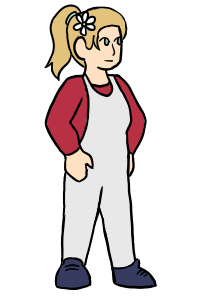
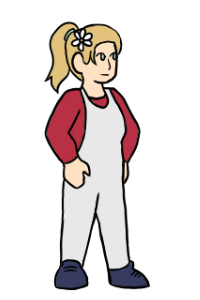
repairs to ingame models & added charlie walk anim

Changed region(s): [[0.21, 0.0, 0.78, 0.99], [0.3, 0.96, 0.36, 0.99]]

diff --git a/Radiant Night/Assets/Scripts/Movement/NPCMovement.cs b/Radiant Night/Assets/Scripts/Movement/NPCMovement.cs
@@ -5,7 +5,7 @@ using UnityEngine;
 public class NPCMovement : MonoBehaviour
 {
     [SerializeField] public string NPCName;
-    [SerializeField] private Sprite sprite;
+    [SerializeField] private Sprite idle_sprite, walking_sprite;
     [SerializeField] private Transform startingPosition;
 
     public GameObject[] waypoints;  // Array of waypoints for the NPC to follow
@@ -97,8 +97,18 @@ public class NPCMovement : MonoBehaviour
                 {
                     transform.position = Vector3.Lerp(startPosition, targetWaypoint.position, elapsedTime / journeyTime);
                     elapsedTime += Time.deltaTime;
+                    if (targetWaypoint.transform.position.x > transform.position.x)
+                    {
+                        GetComponent<SpriteRenderer>().flipX = false;
+                    }
+                    else if (targetWaypoint.transform.position.x < transform.position.x)
+                    {
+                        GetComponent<SpriteRenderer>().flipX = true;
+                    }
                     yield return null;
                 }
+
+                
 
                 transform.position = targetWaypoint.position; // Snap to exact position
                 currentWaypointIndex++;
@@ -116,12 +126,14 @@ public class NPCMovement : MonoBehaviour
     // Set the NPC to stop and wait for the player (when dialogue starts)
     public void WaitAtWaypoint()
     {
+        this.GetComponent<SpriteRenderer>().sprite = idle_sprite;
         isWaiting = true;
     }
 
     // Set the NPC to stop waiting and resume movement
     public void StopWaiting()
     {
+        this.GetComponent<SpriteRenderer>().sprite = walking_sprite;
         isWaiting = false;
         //StopCoroutine(MoveAlongWaypoints());
         StartMoving();

diff --git a/Radiant Night/Assets/Scripts/Movement/Movement.cs b/Radiant Night/Assets/Scripts/Movement/Movement.cs
@@ -19,7 +19,7 @@ public class Movement : MonoBehaviour
     {
         if (!Player.model)
         {
-            Player.SetGender(true, null, null);
+            Player.SetGender(true, null, null, null);
         }
         player.GetComponent<SpriteRenderer>().sprite = Player.model;
         rb = GetComponent<Rigidbody2D>();
@@ -64,8 +64,12 @@ public class Movement : MonoBehaviour
         {
             GetComponent<SpriteRenderer>().flipX = false;
         }
-
-        if (GetComponent<Rigidbody2D>().velocity != Vector2.zero)
+        
+        if (GetComponent<Rigidbody2D>().velocity.y != 0)
+        {
+            player.GetComponent<SpriteRenderer>().sprite = Player.jumping_model;
+        }
+        else if (GetComponent<Rigidbody2D>().velocity.x != 0)
         {
             player.GetComponent<SpriteRenderer>().sprite = Player.walking_model;
         }

diff --git a/Radiant Night/Assets/Scripts/Player.cs b/Radiant Night/Assets/Scripts/Player.cs
@@ -8,9 +8,10 @@ public class Player : MonoBehaviour
     public static Sprite default_model;
     public static Sprite model;
     public static Sprite walking_model;
+    public static Sprite jumping_model;
     public static bool gender; //0 for male, 1 for female
 
-    public static void SetGender(bool fem, Sprite genderedModel, Sprite walkingModel)
+    public static void SetGender(bool fem, Sprite genderedModel, Sprite walkingModel, Sprite jumpingModel)
     {
         if (!genderedModel)
         {
@@ -19,6 +20,7 @@ public class Player : MonoBehaviour
 
         model = genderedModel;
         walking_model = walkingModel;
+        jumping_model = jumpingModel;
         gender = fem;
     }
 }

diff --git a/Radiant Night/Assets/Scripts/newgame.cs b/Radiant Night/Assets/Scripts/newgame.cs
@@ -9,7 +9,7 @@ public class newgame : MonoBehaviour
 {
     [SerializeField] Camera cam;
     [SerializeField] Canvas mainCanvas, characterCanvas;
-    [SerializeField] Sprite ashley, ashton, ashley_walk;
+    [SerializeField] Sprite ashley, ashton, ashley_walk, ashley_jump;
 
     Cutscene cutscene;
     
@@ -36,7 +36,7 @@ public class newgame : MonoBehaviour
 
     public void SelectCharacter(bool fem)
     {
-        Player.SetGender(fem, ashley, ashley_walk);
+        Player.SetGender(fem, ashley, ashley_walk, ashley_jump);
         StartCoroutine(HandleStartGame());
     }
 

diff --git a/Radiant Night/Assets/Scripts/Dialogue/DialogueManager.cs b/Radiant Night/Assets/Scripts/Dialogue/DialogueManager.cs
@@ -153,7 +153,6 @@ public class DialogueManager : MonoBehaviour
             
             //display dialogue line
             displayLineCoroutine = StartCoroutine(DisplayLine(currentStory.Continue()));
-            Debug.Log(currentStory.variablesState["dinnerready"]);
             
             HandleTags(currentStory.currentTags);
         }
